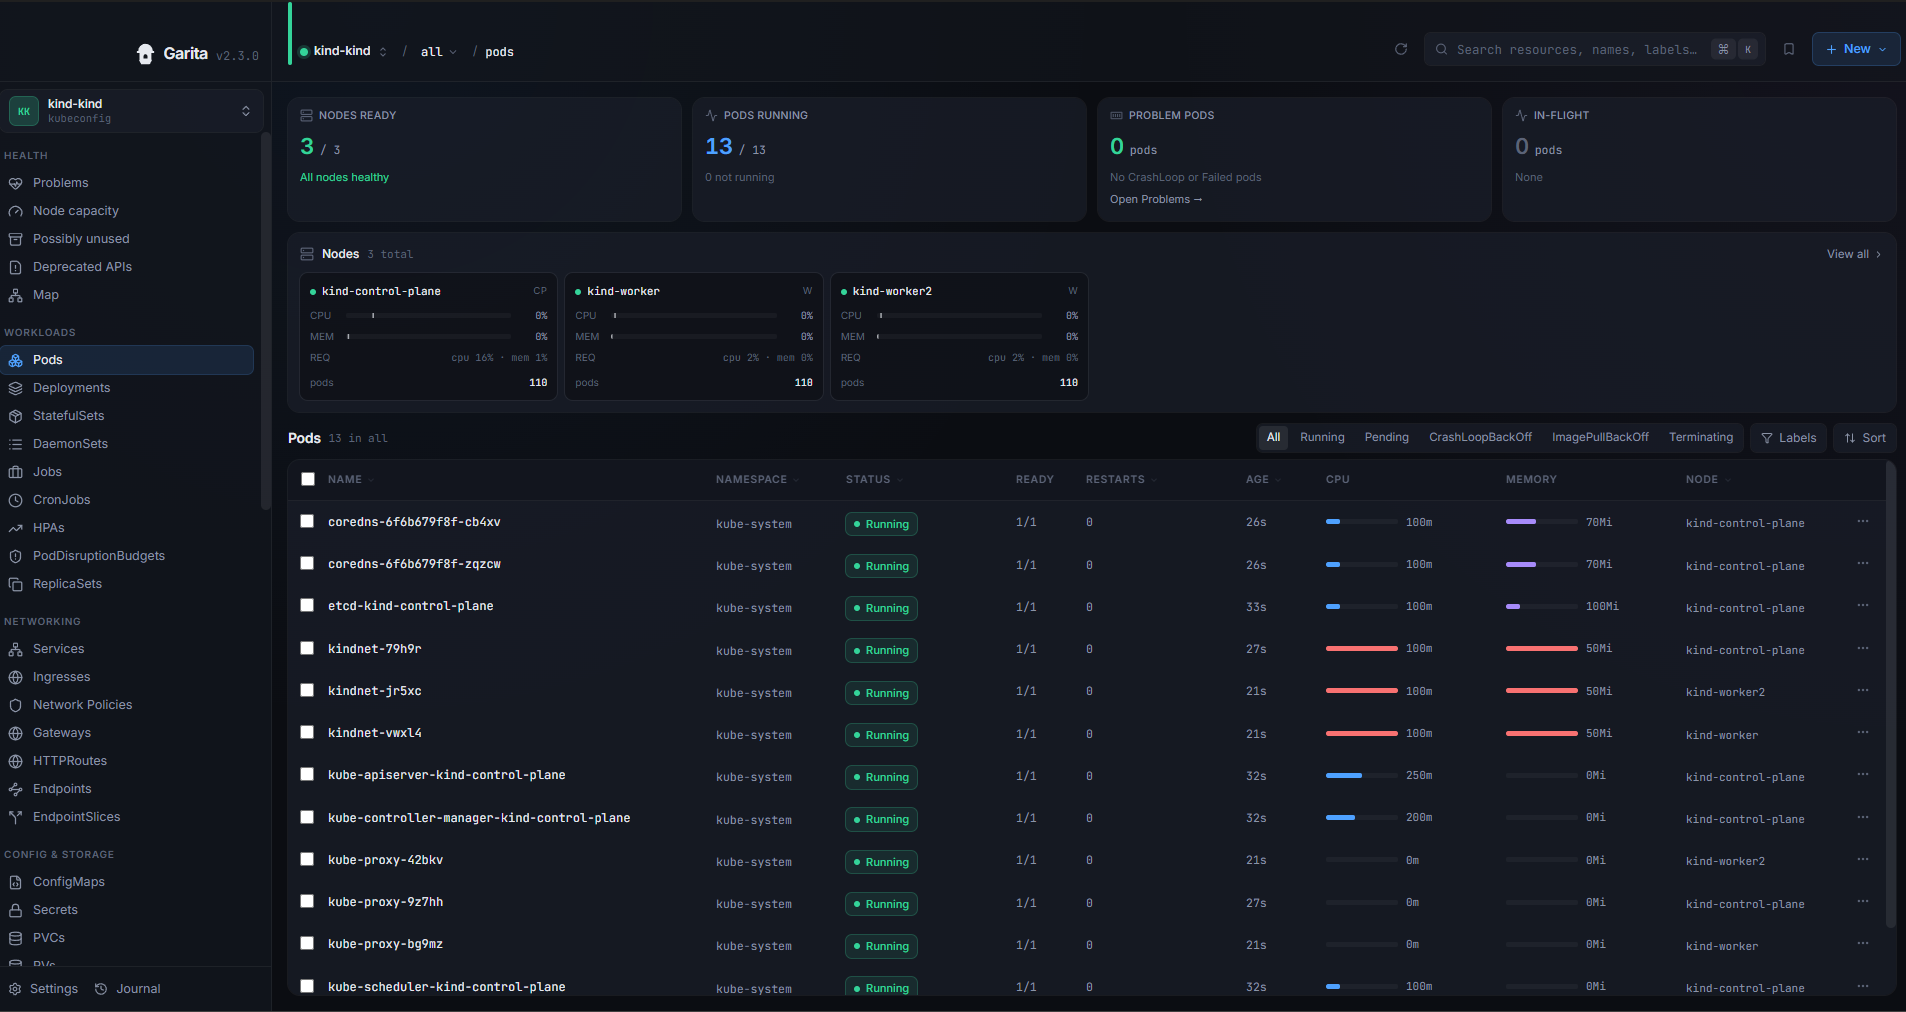
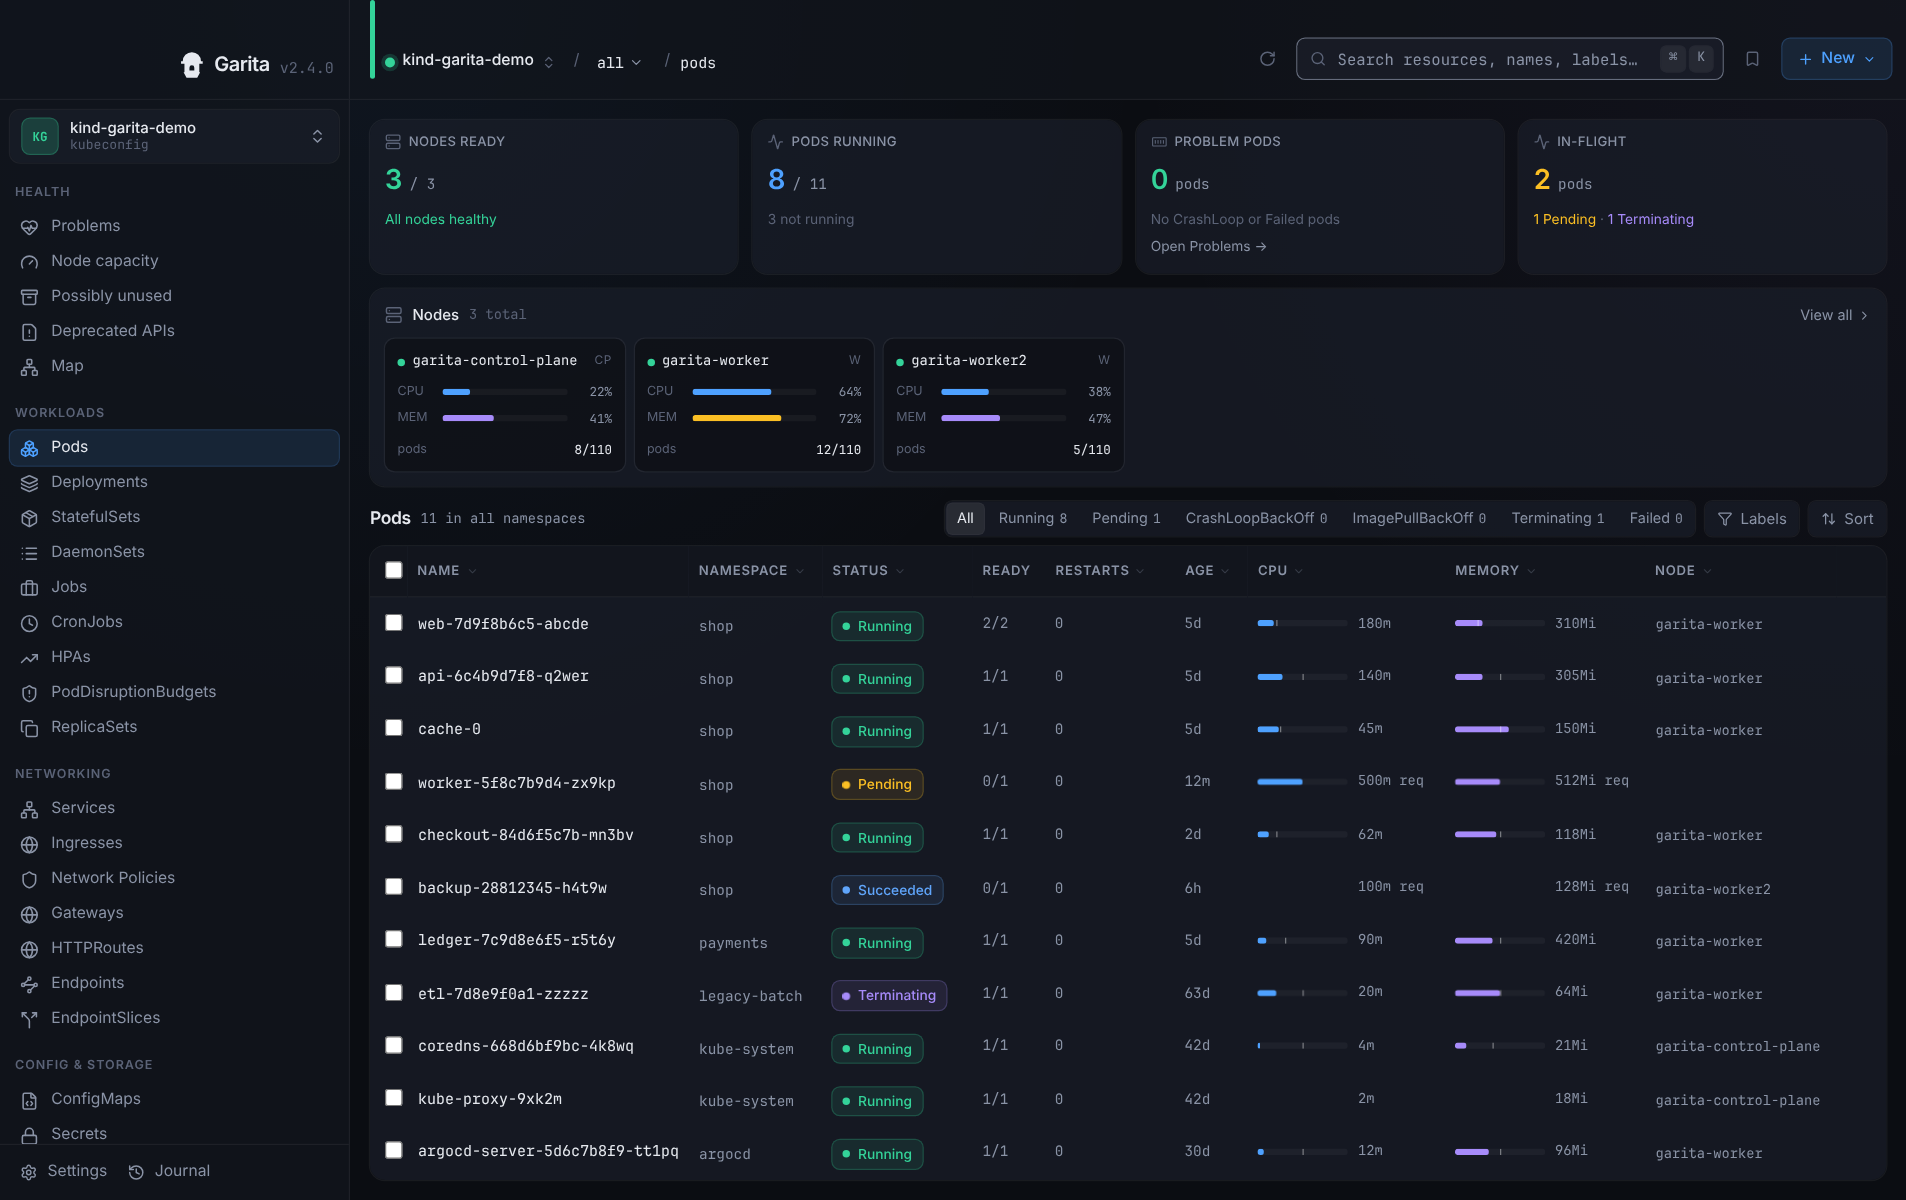
docs(site): new screenshots with sample data in the README and on the landing page [skip ci]
Replace the hero with a v2.4.0 capture of the Pods view and add a gallery
of the Namespaces page, the Pod panel and the ArgoCD panel. Every caption
says the screenshots use sample data; the old caption that called the hero
a real window on a kind cluster is gone.

Claude-Session: https://claude.ai/code/session_01YUTPaZBe5Q5K8EhuzYcUGd

diff --git a/index.html b/index.html
@@ -115,6 +115,8 @@ details p{margin:.5rem 0}
 .shot a{display:block}
 .shot img{display:block;max-width:100%;height:auto;border:1px solid var(--edge2);border-radius:12px}
 .shot figcaption{margin:12px auto 0;text-align:center}
+.gal{display:grid;grid-template-columns:minmax(0,1fr);gap:32px 24px;margin-top:24px}
+.gal .shot{margin:0}
 .name{display:flex;align-items:center;gap:16px;color:var(--mute);margin-top:16px}
 .name svg{flex:none;color:var(--accent)}
 .name p{margin:0}
@@ -130,7 +132,7 @@ header{position:sticky;top:0}
 .btns,.dls{justify-content:center}
 .hero .small{margin-left:auto;margin-right:auto}
 .mobile-note{display:none}
-.grid{grid-template-columns:repeat(2,minmax(0,1fr))}
+.grid,.gal{grid-template-columns:repeat(2,minmax(0,1fr))}
 .w2,.w3{grid-column:span 2}
 }
 @media (min-width:960px){
@@ -176,7 +178,7 @@ html{scroll-behavior:auto}
     <a href="https://github.com/KANOMNUT/garita/releases/latest/download/Garita-windows-amd64.msi">Windows .msi</a>
   </div>
   <p class="small" id="dl-note">macOS builds are not notarized: on first launch run <code>xattr -rd com.apple.quarantine /Applications/Garita.app</code> (or <code>~/Applications/Garita.app</code>). Windows installers are unsigned, so SmartScreen will warn.</p>
-  <figure class="shot"><a href="site/demo.png"><img src="site/demo.png" width="1906" height="1012" decoding="async" fetchpriority="high" alt="Garita showing the Pods view of a local kind cluster: node cards, a pod table with CPU and memory bars, and the sidebar of resource kinds."></a><figcaption class="small">A real Garita window on a local kind test cluster.</figcaption></figure>
+  <figure class="shot"><a href="site/demo.png"><img src="site/demo.png" width="1906" height="1200" decoding="async" fetchpriority="high" alt="Garita's Pods view with sample data: summary cards, three node cards with CPU and memory bars, and a table of eleven pods with status, CPU and memory."></a><figcaption class="small">The Pods view, with sample data.</figcaption></figure>
 </div></div>
 
 <section id="features"><div class="wrap">
@@ -195,6 +197,17 @@ html{scroll-behavior:auto}
   </div>
   <p class="also-l">Also included:</p>
   <ul class="also"><li class="chip neu">Helm</li><li class="chip neu">ArgoCD</li><li class="chip neu">Flux</li><li class="chip neu">Who can&hellip;</li><li class="chip neu">Action journal</li><li class="chip neu">Network policies (approximation)</li><li class="chip neu">&#8984;K palette</li></ul>
+</div></section>
+
+<section id="gallery"><div class="wrap">
+  <h2>A closer look</h2>
+  <p class="lede lead">Panels from the app. All screenshots use sample data.</p>
+  <div class="gal">
+    <figure class="shot"><a href="site/full-namespaces.png"><img src="site/gallery-namespaces.png" width="700" height="912" loading="lazy" decoding="async" alt="Garita's Namespaces page with sample data: the namespace legacy-batch is Terminating, and its side panel lists the conditions that keep it from being deleted."></a><figcaption class="small">A namespace stuck in Terminating, and why. Sample data.</figcaption></figure>
+    <figure class="shot"><a href="site/full-pod.png"><img src="site/gallery-pod.png" width="700" height="912" loading="lazy" decoding="async" alt="Garita's Pod panel with sample data: the Summary tab lists the pod's metadata, service account and conditions."></a><figcaption class="small">The Pod panel's Summary: service account and conditions. Sample data.</figcaption></figure>
+    <figure class="shot"><a href="site/full-argocd.png"><img src="site/gallery-argocd.png" width="700" height="912" loading="lazy" decoding="async" alt="Garita's ArgoCD application panel with sample data: Healthy and Synced chips side by side, then the sync options Prune, Dry run and Force with a line of help each, above the Sync, Refresh and Hard refresh buttons."></a><figcaption class="small">ArgoCD: health and sync shown separately, sync options explained before you sync. Sample data.</figcaption></figure>
+    <figure class="shot"><img src="site/gallery-argocd-history.png" width="700" height="912" loading="lazy" decoding="async" alt="The History tab of an ArgoCD application in Garita, with sample data: the newest deployment is marked Current and expanded to show a multi-line commit message and a Roll back button."><figcaption class="small">ArgoCD History: the whole commit message, and the live revision marked. Sample data.</figcaption></figure>
+  </div>
 </div></section>
 
 <section id="safety"><div class="wrap">

diff --git a/README.md b/README.md
@@ -4,7 +4,24 @@ Garita (gah-REE-tah) is the Spanish word for a fortress sentry box.
 
 A cross-platform desktop GUI for managing Kubernetes clusters, built with Tauri v2, React 18 and Rust. Every Kubernetes call goes from the Rust backend through kube-rs; there is no `kubectl` binary dependency.
 
-![Garita Pods view on a kind cluster](site/demo.png)
+![Garita's Pods view with sample data: summary cards, three node cards with CPU and memory bars, and a table of eleven pods with status, CPU and memory.](site/demo.png)
+
+*The Pods view, with sample data.*
+
+<table>
+<tr>
+<td align="center" valign="top" width="33%"><a href="site/full-namespaces.png"><img src="site/gallery-namespaces.png" width="260" alt="Garita's Namespaces page with sample data: the namespace legacy-batch is Terminating, and its side panel lists the conditions that keep it from being deleted."></a></td>
+<td align="center" valign="top" width="33%"><a href="site/full-pod.png"><img src="site/gallery-pod.png" width="260" alt="Garita's Pod panel with sample data: the Summary tab lists the pod's metadata, service account and conditions."></a></td>
+<td align="center" valign="top" width="33%"><a href="site/full-argocd.png"><img src="site/gallery-argocd.png" width="260" alt="Garita's ArgoCD application panel with sample data: Healthy and Synced chips side by side, then the sync options Prune, Dry run and Force with a line of help each, above the Sync, Refresh and Hard refresh buttons."></a></td>
+</tr>
+<tr>
+<td align="center" valign="top"><sub>A namespace stuck in Terminating, and why. Sample data.</sub></td>
+<td align="center" valign="top"><sub>The Pod panel's Summary: service account and conditions. Sample data.</sub></td>
+<td align="center" valign="top"><sub>ArgoCD: health and sync shown separately, sync options explained before you sync. Sample data.</sub></td>
+</tr>
+</table>
+
+<sub>All screenshots use sample data. Select one for the full screenshot.</sub>
 
 **Your kubeconfig is read-only to Garita.** It reads your default kubeconfig plus any kubeconfig files you import in-app, by file picker or by pasting YAML, both behind a preview of the contexts the file defines. Imported files are registered by path, never merged into `~/.kube/config`, and removing one deletes nothing from disk. Selecting a cluster in Garita does not change your `kubectl` default.
 

diff --git a/docs/build-and-release.md b/docs/build-and-release.md
@@ -180,7 +180,7 @@ For GKE/EKS/AKS integration testing in CI, ensure the appropriate auth plugin bi
 | `pr-title.yml` | Pull request | Conventional Commits title |
 | `labeler.yml` | Pull request | Area labels from `.github/labeler.yml` |
 | `release.yml` | `vX.Y.Z` tag, manual | Installers, updater tarball and signatures, `latest.json`, `SHA256SUMS.txt`, SPDX SBOM, build provenance, draft release (publish job runs in Environment `release`) |
-| `pages.yml` | Release published, push to `main` touching `index.html` or `site/**`, manual | Landing page to GitHub Pages. The artifact is the root `index.html`, exactly the same-site files it loads (today `site/demo.png`; a missing one fails the job) and `scoop/garita.json` rendered from the latest release (see Scoop below); nothing else in the repository is published. Then a 1-byte GET check of the 5 unique `releases/latest/download/` links in `index.html` (dmg, deb, rpm, msi, setup exe; the count is asserted, so adding or removing a link on the page changes it deliberately). Pages source must be "GitHub Actions" |
+| `pages.yml` | Release published, push to `main` touching `index.html` or `site/**`, manual | Landing page to GitHub Pages. The artifact is the root `index.html`, exactly the same-site files it loads (the PNGs under `site/`; a missing one fails the job) and `scoop/garita.json` rendered from the latest release (see Scoop below); nothing else in the repository is published. Then a 1-byte GET check of the 5 unique `releases/latest/download/` links in `index.html` (dmg, deb, rpm, msi, setup exe; the count is asserted, so adding or removing a link on the page changes it deliberately). Pages source must be "GitHub Actions" |
 
 What blocks and what only reports:
 
